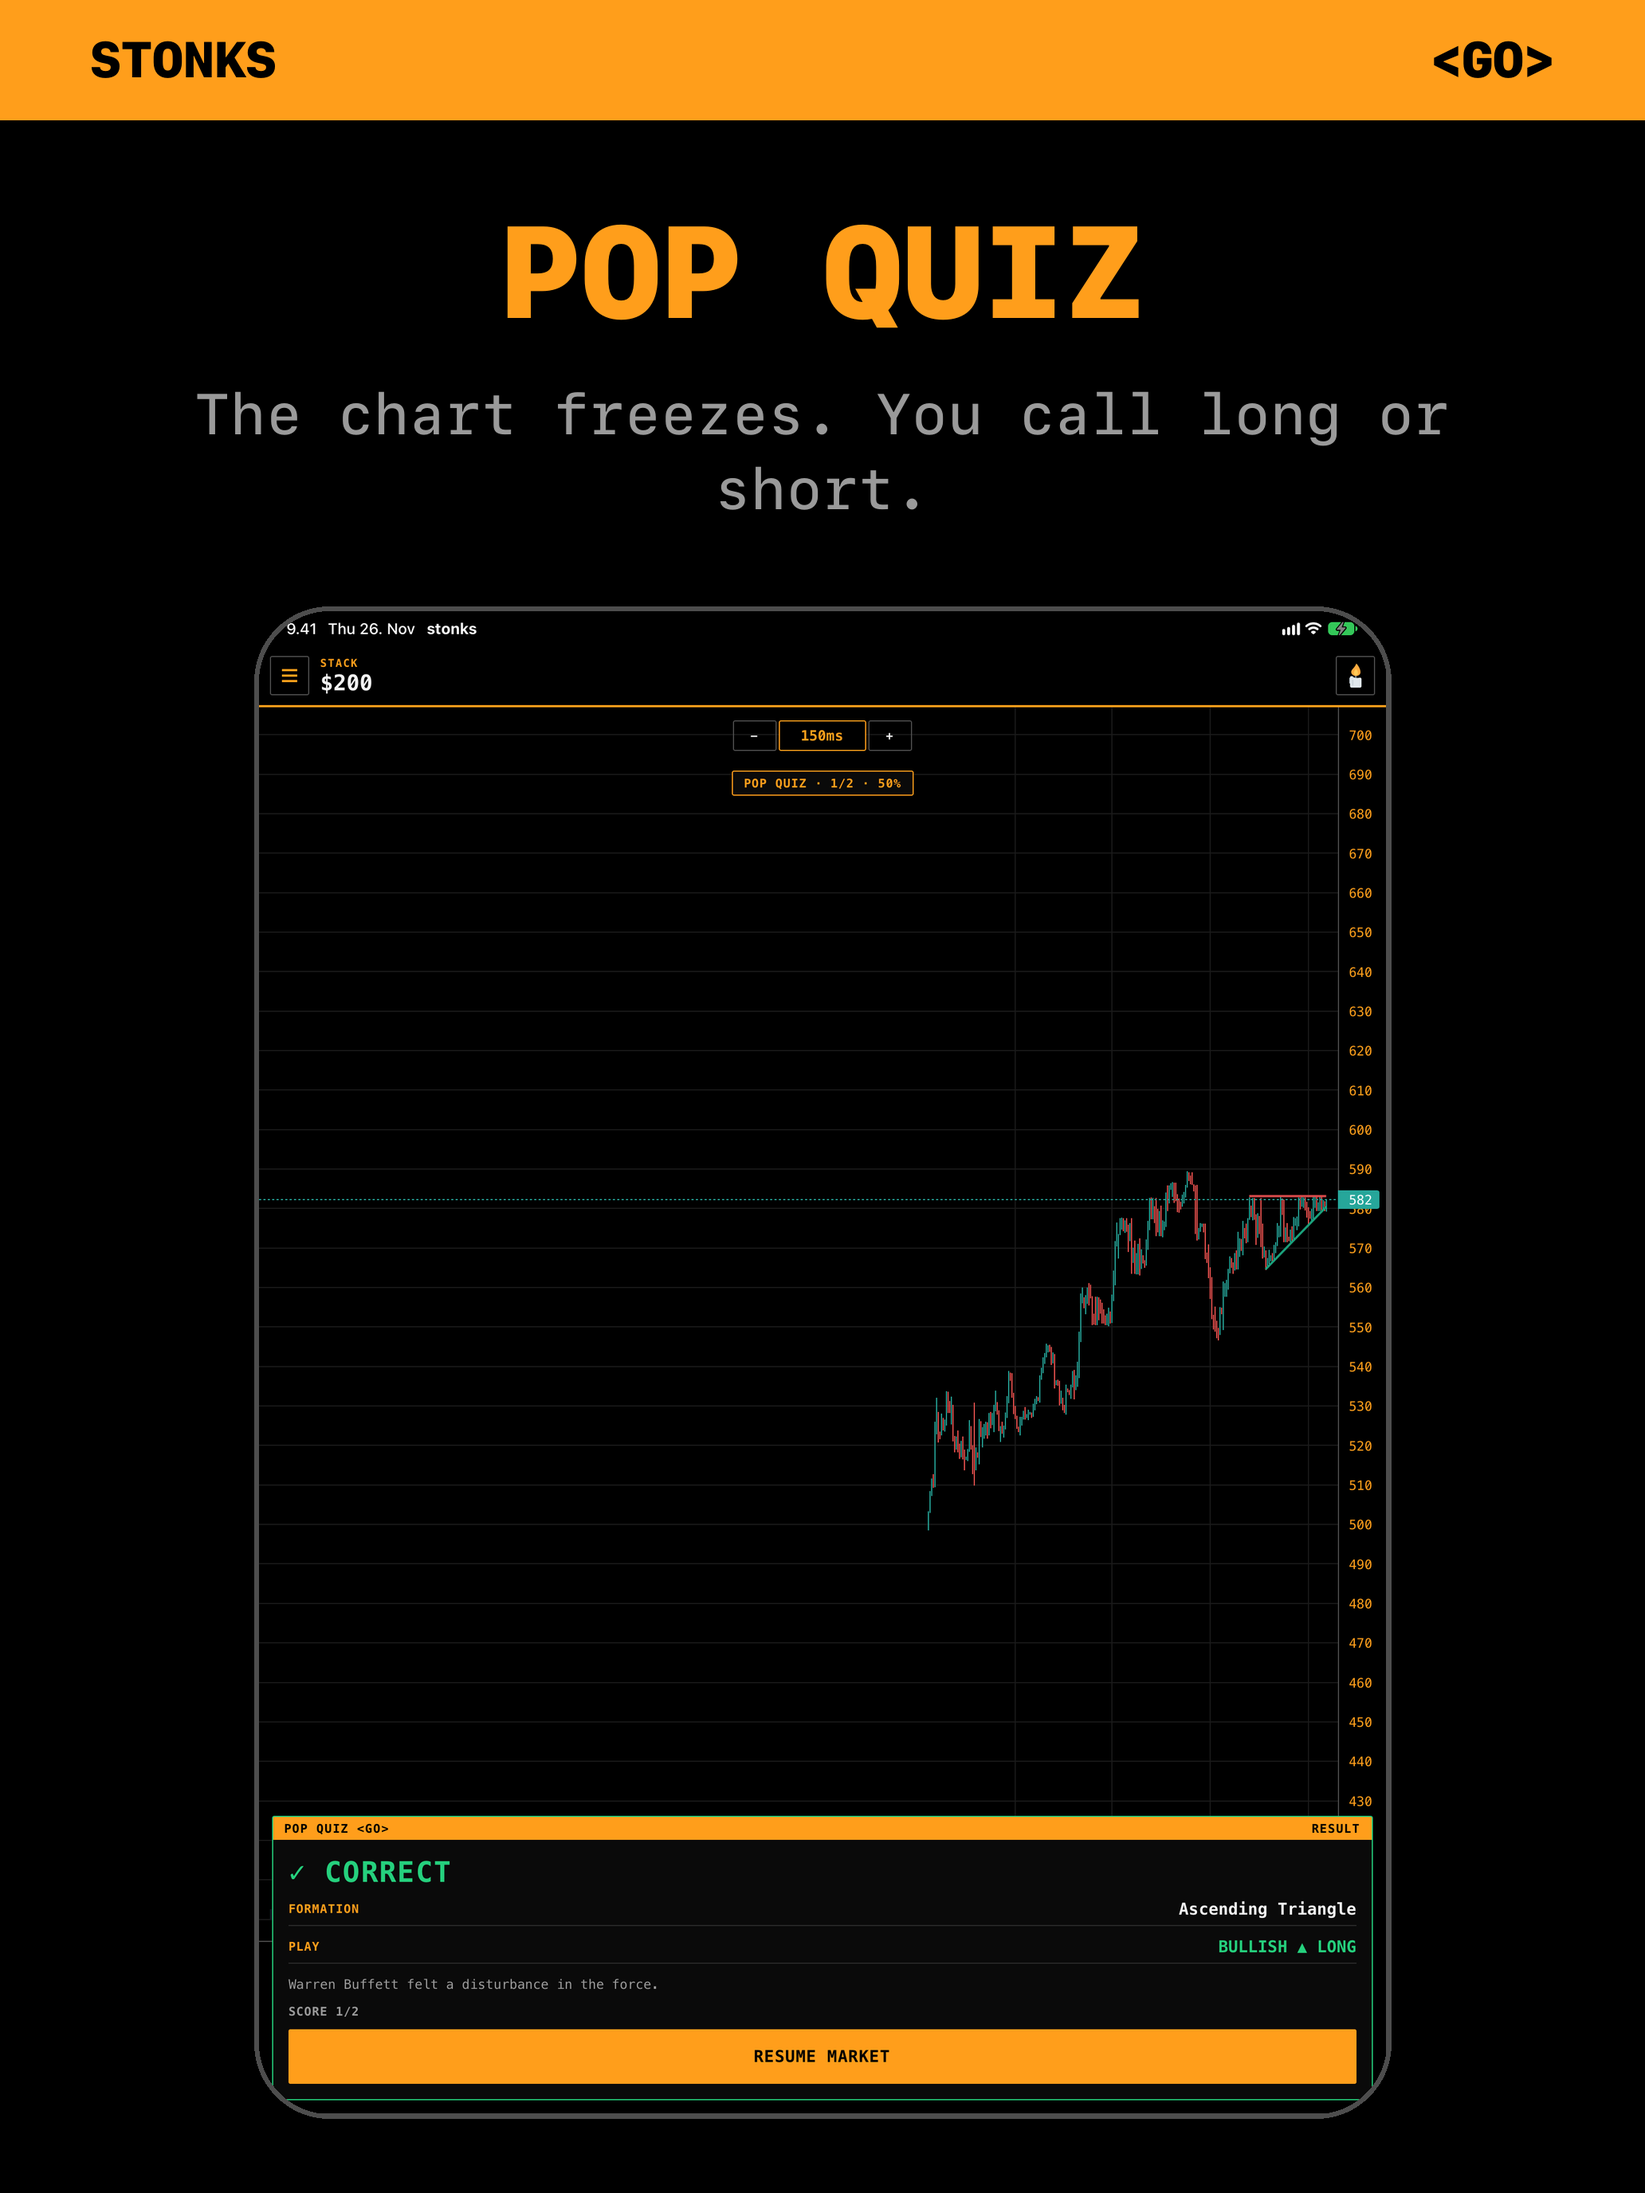
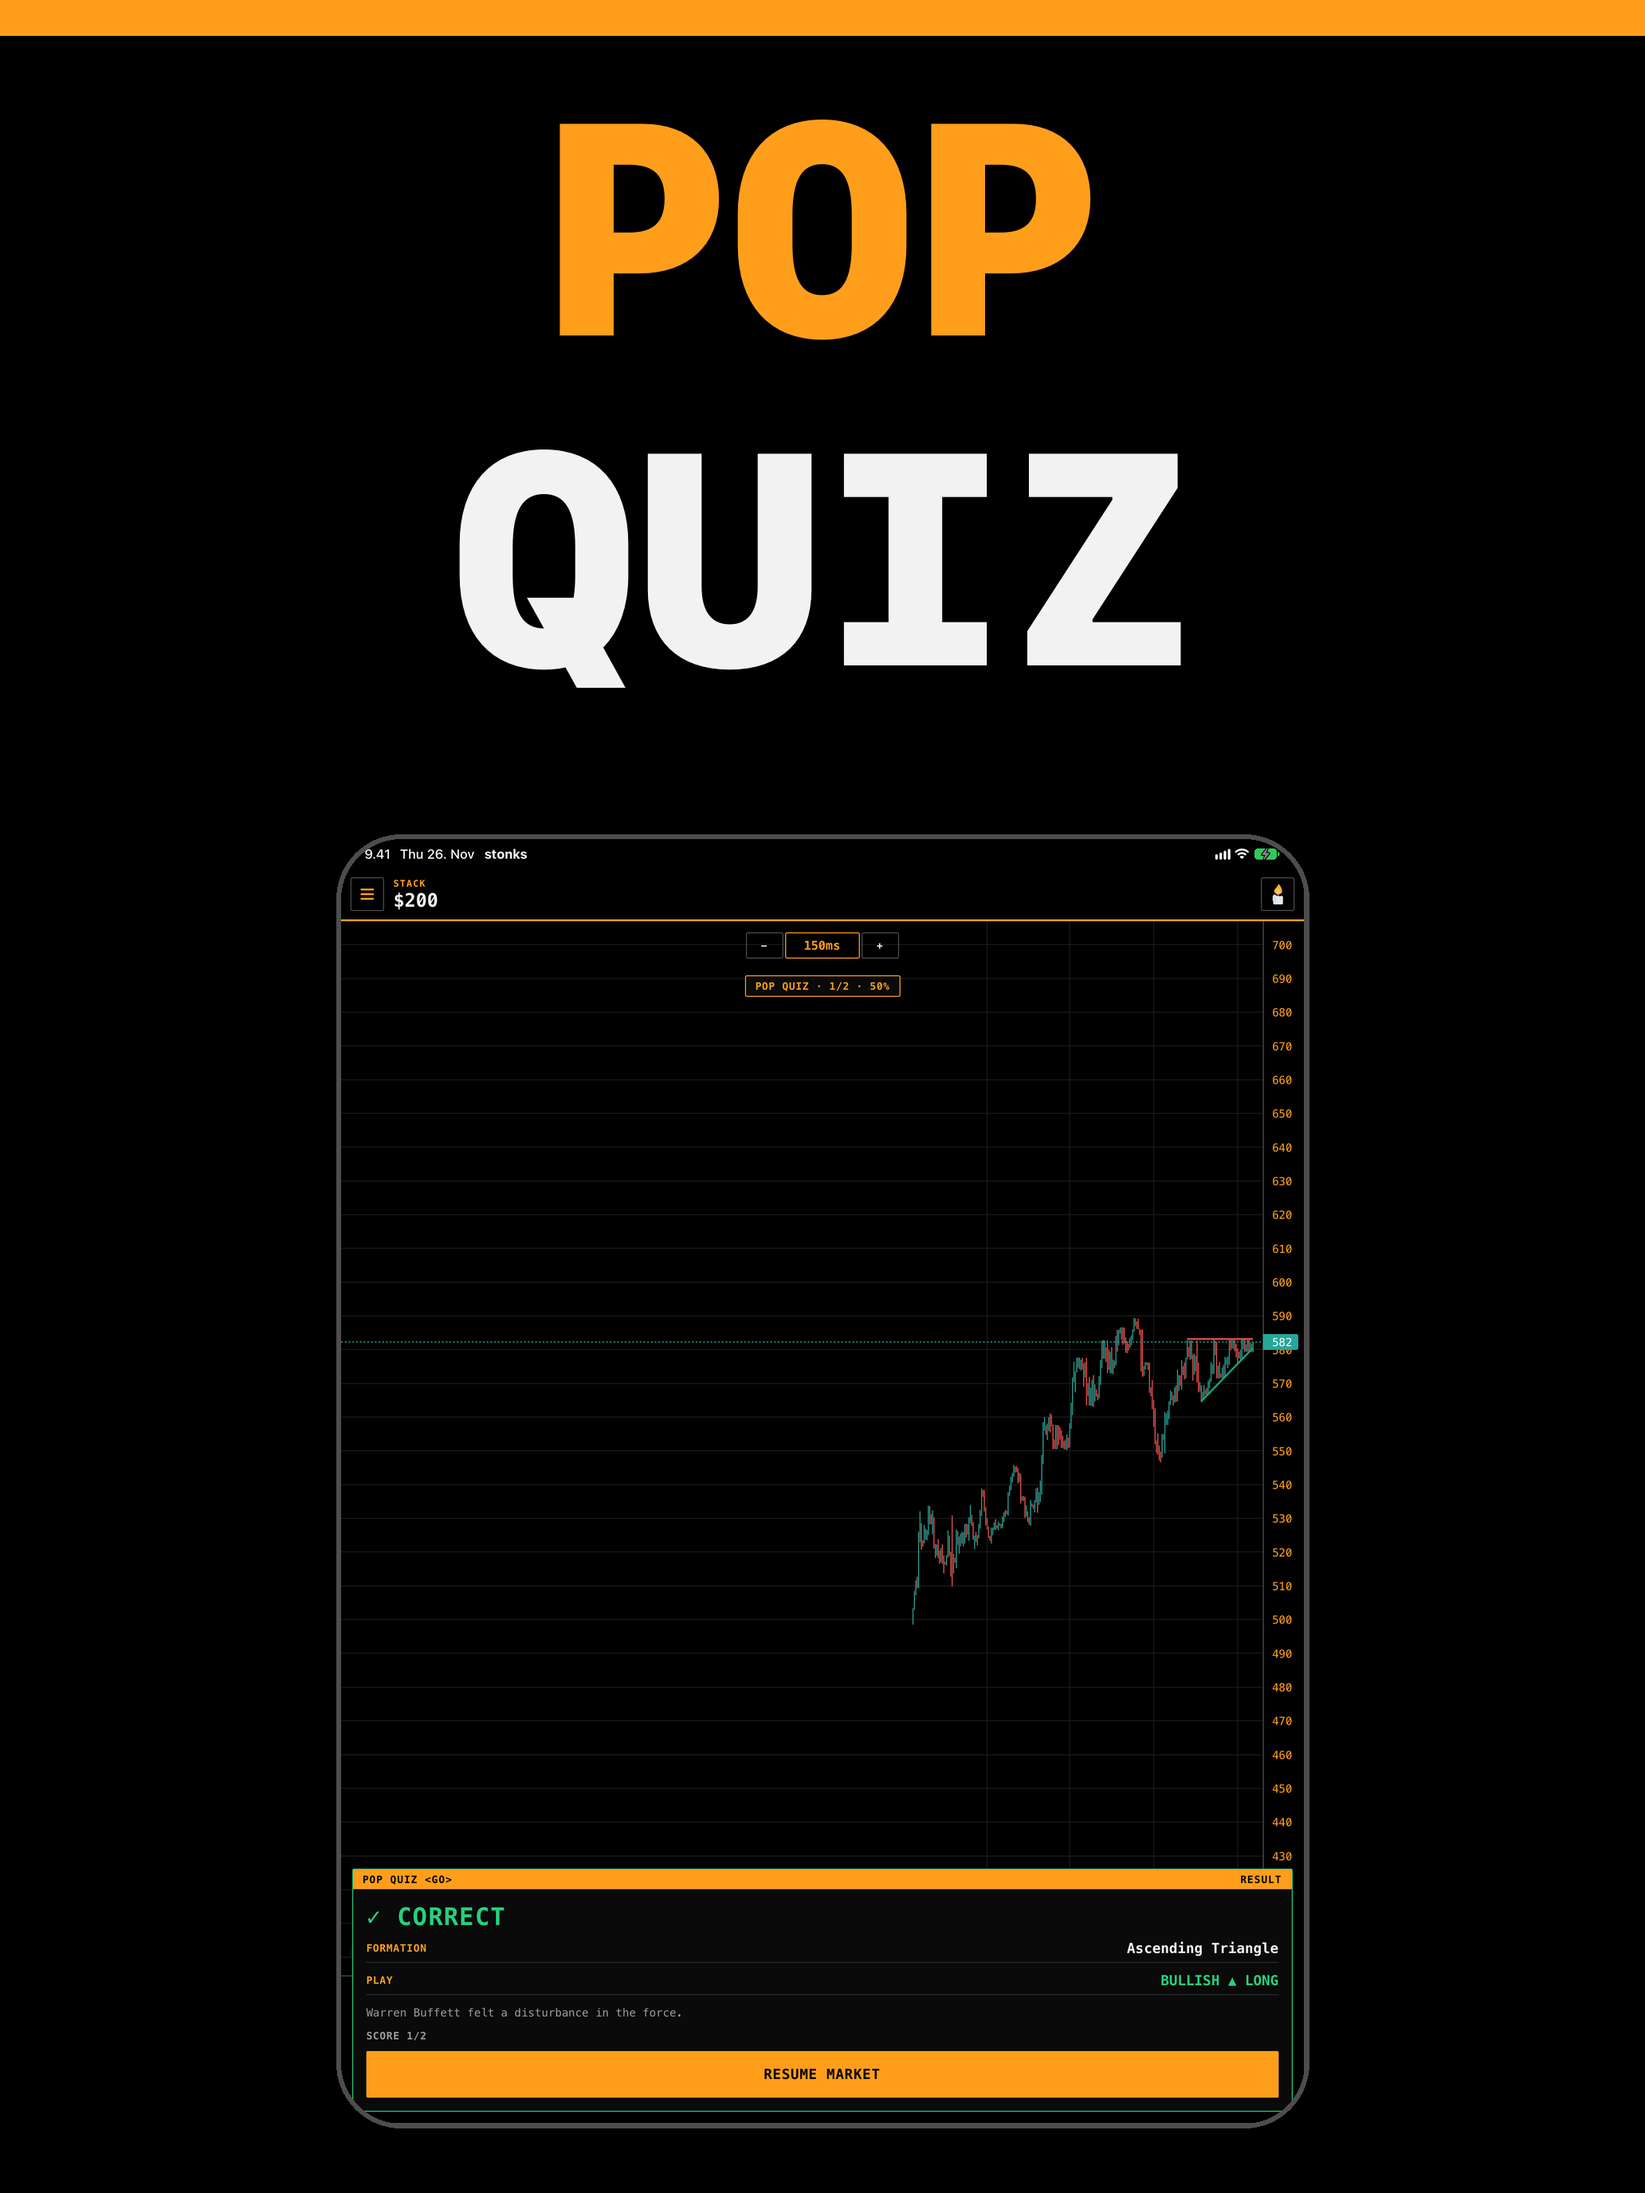
Bigger store screenshot headlines; resubmit 2.0.0 with them
Two-line headlines (max 8 characters per line) sized to fill the width so
they read at App Store thumbnail size; smaller device frame below. Adds a
fastlane lane that pulls 2.0.0 from review, swaps the iPhone and iPad sets
and resubmits.

diff --git a/store/compose.py b/store/compose.py
@@ -27,13 +27,15 @@ DIM = (154, 154, 154)
 BORDER = (77, 77, 77)
 
 # Order is the store order: the first one is what people see in search results.
+# Two short lines per shot (max 8 characters each) so the headline stays huge and
+# readable at store thumbnail size.
 SHOTS = [
-    ("sprint-toast", "LEVERAGE UP TO 50X", "Catch the breakout. Print the gains."),
-    ("sprint-open", "60 SECONDS. ONE STACK.", "Long or short, one tick from liquidation."),
-    ("training-c", "LEARN THE PATTERNS", "Training Wheels draws every line. Scored in %, no money at risk."),
-    ("quiz-reveal", "POP QUIZ", "The chart freezes. You call long or short."),
-    ("results", "FLEX YOUR RUN", "Leaderboards and achievements for every mode."),
-    ("menu", "FIVE WAYS TO TRADE", "Sprint, 5 Trades, Training Wheels, Pop Quiz, Daily Quote."),
+    ("sprint-toast", ("50X", "LEVERAGE")),
+    ("sprint-open", ("60 SEC", "SPRINTS")),
+    ("training-c", ("LEARN", "PATTERNS")),
+    ("quiz-reveal", ("POP", "QUIZ")),
+    ("results", ("FLEX", "YOUR WIN")),
+    ("menu", ("5 GAME", "MODES")),
 ]
 
 # folder -> (canvas size, raw capture folder, raw names that differ from SHOTS)
@@ -66,41 +68,41 @@ def rounded(image, radius):
     return out
 
 
-def compose(raw_path, headline, subline, size):
+def headline_size(draw, width, margin, unit):
+    """One type size for the whole set: the largest that fits every line across the canvas."""
+    longest = max((line for _, lines in SHOTS for line in lines), key=len)
+    size = round(300 * unit)
+    while size > 20 and draw.textlength(longest, font=ImageFont.truetype(HEAVY, size)) > width - 2 * margin:
+        size -= 4
+    return size
+
+
+def compose(raw_path, lines, size):
     width, height = size
     unit = width / 1320  # scale everything off the 6.9" layout
     canvas = Image.new("RGB", size, BG)
     draw = ImageDraw.Draw(canvas)
-    margin = round(72 * unit)
+    margin = round(64 * unit)
 
-    # Amber terminal header strip, like the app's own.
-    strip = round(96 * unit)
-    draw.rectangle((0, 0, width, strip), fill=AMBER)
-    tag_font = ImageFont.truetype(HEAVY, round(40 * unit))
-    draw.text((margin, strip / 2), "STONKS", font=tag_font, fill=BG, anchor="lm")
-    draw.text((width - margin, strip / 2), "<GO>", font=tag_font, fill=BG, anchor="rm")
+    # Thin amber terminal band.
+    draw.rectangle((0, 0, width, round(28 * unit)), fill=AMBER)
 
-    # Headline and subline.
-    y = strip + round(84 * unit)
-    head_font = ImageFont.truetype(HEAVY, round(104 * unit))
-    for line in wrap(draw, headline, head_font, width - 2 * margin):
-        draw.text((width / 2, y), line, font=head_font, fill=AMBER, anchor="mt")
-        y += round(120 * unit)
-    sub_font = ImageFont.truetype(MEDIUM, round(46 * unit))
-    y += round(14 * unit)
-    for line in wrap(draw, subline, sub_font, width - 2 * margin):
-        draw.text((width / 2, y), line, font=sub_font, fill=DIM, anchor="mt")
-        y += round(60 * unit)
+    # Huge two-line headline: first line amber, second white.
+    font = ImageFont.truetype(HEAVY, headline_size(draw, width, margin, unit))
+    ascent, descent = font.getmetrics()
+    line_height = ascent + descent
+    y = round(96 * unit)
+    for index, line in enumerate(lines):
+        draw.text((width / 2, y), line, font=font, fill=AMBER if index == 0 else TEXT, anchor="mt")
+        y += round(line_height * 0.92)
 
     # The screenshot, framed like a terminal panel, filling the rest.
-    top = y + round(56 * unit)
-    bottom_pad = round(64 * unit)
+    top = y + round(48 * unit)
+    bottom_pad = round(56 * unit)
     shot = Image.open(raw_path).convert("RGB")
-    avail_h = height - top - bottom_pad
-    avail_w = width - 2 * margin
-    scale = min(avail_h / shot.height, avail_w / shot.width)
+    scale = min((height - top - bottom_pad) / shot.height, (width - 2 * margin) / shot.width)
     shot = shot.resize((round(shot.width * scale), round(shot.height * scale)), Image.LANCZOS)
-    radius = round(56 * unit)
+    radius = round(48 * unit)
     x = (width - shot.width) // 2
     border = max(2, round(4 * unit))
     draw.rounded_rectangle(
@@ -108,7 +110,8 @@ def compose(raw_path, headline, subline, size):
         radius=radius + border,
         fill=BORDER,
     )
-    canvas.paste(rounded(shot, radius), (x, top), rounded(shot, radius))
+    masked = rounded(shot, radius)
+    canvas.paste(masked, (x, top), masked)
     return canvas
 
 
@@ -117,9 +120,9 @@ def main():
         folder.mkdir(parents=True, exist_ok=True)
         for old in folder.glob("*.png"):
             old.unlink()
-        for index, (name, headline, subline) in enumerate(SHOTS, start=1):
+        for index, (name, lines) in enumerate(SHOTS, start=1):
             out = folder / f"{index:02d}-{name}.png"
-            compose(raw_dir / f"{renames.get(name, name)}.png", headline, subline, size).save(out, optimize=True)
+            compose(raw_dir / f"{renames.get(name, name)}.png", lines, size).save(out, optimize=True)
             print(out.relative_to(ROOT.parent), size)
 
 
